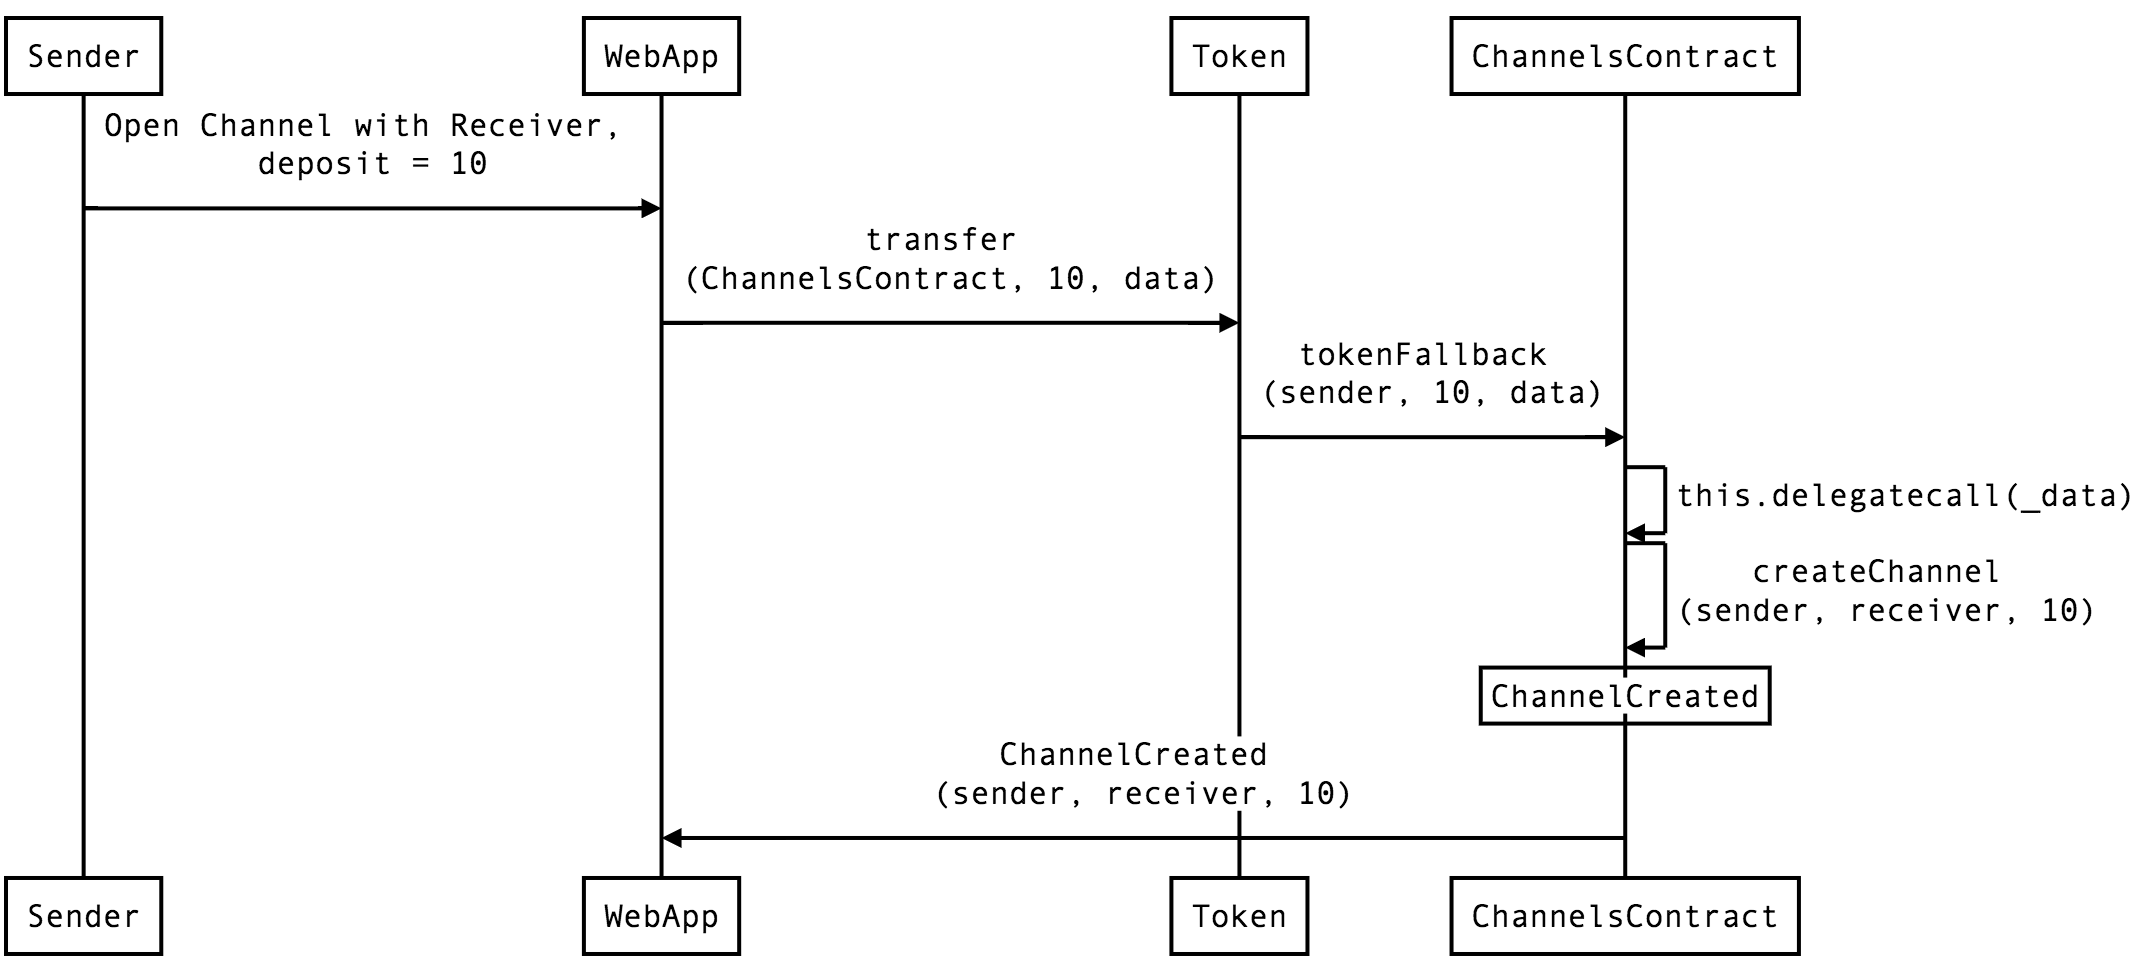
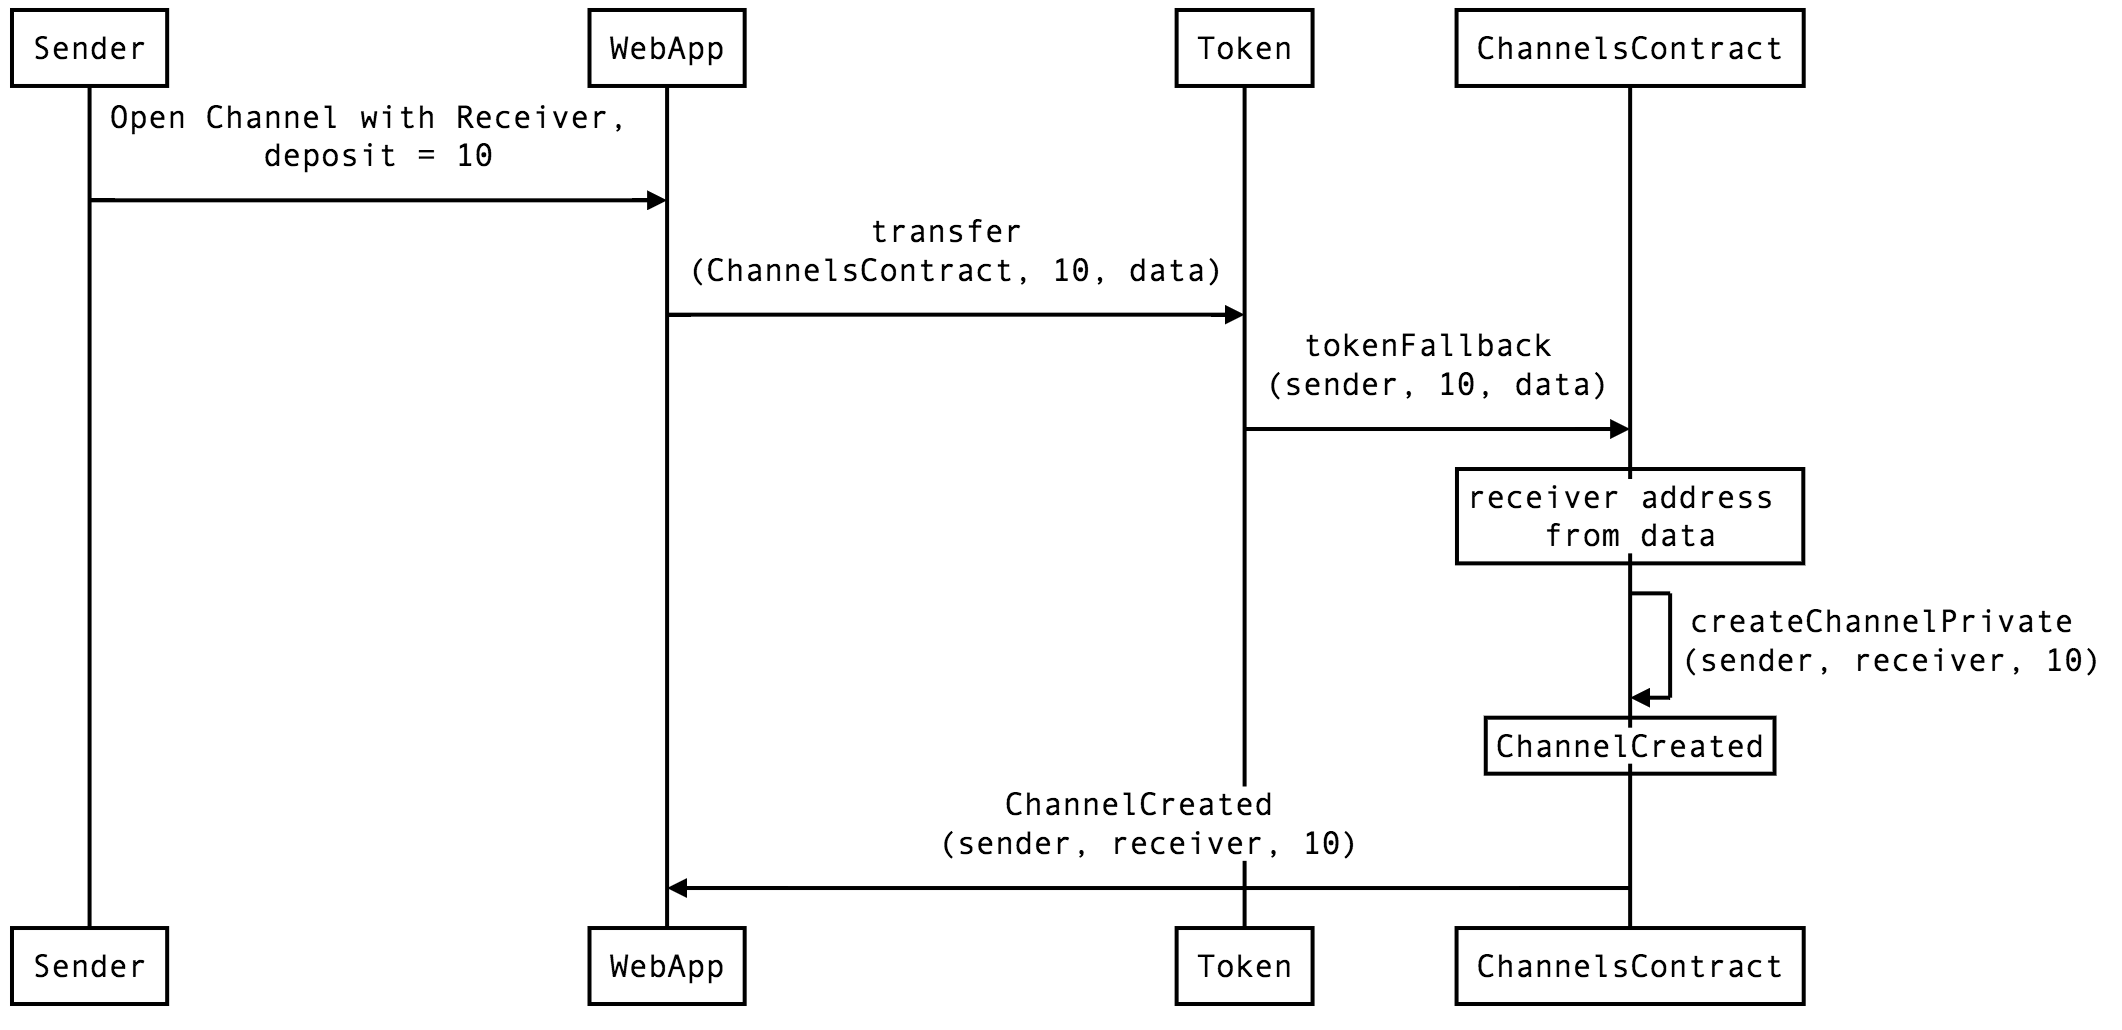
Update contract docs

diff --git a/contracts/docs/logic.md b/contracts/docs/logic.md
@@ -15,19 +15,15 @@ Sender sends tokens to the Contract, with a payload for calling `createChannel`.
 ```
 Token.transfer(_to, _value, _data)
 ```
-Gas cost (testing): 82963
+Gas cost (testing): 86954
 
  * `_to` = `Contract.address`
  * `_value` = deposit value (number of tokens)
- * `_data` is the equivalent of `msg.data` when calling `createChannel`
-   - in web3.js, `var _data = Contract.createChannel.getData(_sender, _receiver, _deposit);` https://github.com/ethereum/wiki/wiki/JavaScript-API#web3ethcontract
-   - in web3.py
+ * `_data` contains the Receiver address encoded in 20 bytes
+   - in python
    ```
-    from ethereum.abi import (
-      ContractTranslator
-    )
-    ct = ContractTranslator(abi)
-    _data = ct.encode('createChannel', [sender, receiver, deposit])
+    _data = receiver_address[2:].zfill(40)
+    _data = bytes.fromhex(_data)
    ```
 
 ![ChannelOpen_ERC223](/contracts/docs/diagrams/ChannelOpen_223.png)
@@ -55,19 +51,15 @@ Sender sends tokens to the Contract, with a payload for calling `topUp`.
 ```
 Token.transfer(_to, _value, _data)
 ```
-Gas cost (testing): 63872
+Gas cost (testing): 68636
 
  * `_to` = `Contract.address`
  * `_value` = deposit value (number of tokens)
- * `_data` is the equivalent of `msg.data` when calling `topUp`
-   - in web3.js, `var _data = Contract.topUp.getData(_sender, _receiver, _open_block_number, _added_deposit);`
-   - in web3.py
+ * `_data` contains the Receiver address encoded in 20 bytes + the open_block_number in 8 bytes
+   - in python
    ```
-    from ethereum.abi import (
-      ContractTranslator
-    )
-    ct = ContractTranslator(abi)
-    _data = ct.encode('topUp', [_sender, _receiver, _open_block_number, _added_deposit])
+    _data = receiver_address[2:].zfill(40) + hex(open_block_number)[2:].zfill(8)
+    _data = bytes.fromhex(_data)
    ```
 
  ![ChannelTopUp_223](/contracts/docs/diagrams/ChannelTopUp_223.png)
